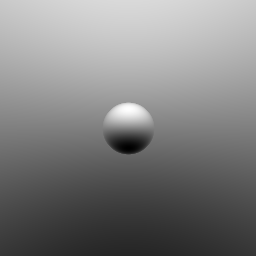
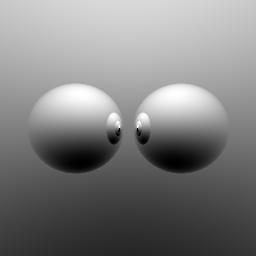
implemented shootRay with multiple objects in scene

Changed region(s): [[0.125, 0.3125, 0.875, 0.6875]]

diff --git a/main.py b/main.py
@@ -4,24 +4,40 @@ import numpy as np
 
 class Scene:
     def __init__(self):
-        self.sphere = Sphere([0,0,5], 1, Material(1,1))
+        self.geometry = [
+            Sphere([1.1,0,3], 1, Material(1,1)),
+            Sphere([-1.1,0,3], 1, Material(1,1))
+        ]
 
     def storeGeometry(self):
         pass
 
     def shootRay(self, ray, depth = 0):
-        if depth > 4:
+        if depth > 7:
             return Color([0,0,0])
-        intersection = self.sphere.getIntersection(ray)
+        intersection = None
+        closestShape = None
+        for shape in self.geometry:
+            tempIntersection = shape.getIntersection(ray)
+            if tempIntersection is not None and self.closer(tempIntersection, intersection, ray.origin):
+                intersection = tempIntersection
+                closestShape = shape
         if intersection is not None:
-            return self.sphere.computeLight(ray, intersection, self, depth)
+            return closestShape.computeLight(ray, intersection, self, depth)
         brightness = (ray.direction[1]+1)*255/2
         return Color([brightness, brightness, brightness])
+
+    def closer(self, tempIntersection, intersection, origin):
+        if intersection is None:
+            return True
+        v1 = tempIntersection - origin
+        v2 = intersection - origin
+        return np.dot(v1,v1) < np.dot(v2,v2)
 
 
 class Ray:
     def __init__(self, origin, direction):
-        self.origin = origin
+        self.origin = np.array(origin)
         self.direction = np.array(direction)/np.linalg.norm(direction)
 
 
@@ -35,6 +51,7 @@ class Material:
         direction = ray.direction-2*normal*np.dot(ray.direction,normal)
         directions.append((direction,1))
         return directions
+
 
 class Plane:
     def getIntersection(self, ray):
@@ -75,6 +92,7 @@ class Light:
     def __init__(self, position):
         self.position = position
 
+
 class Camera:
     def __init__(self, ray, fov):
         self.ray = ray
@@ -112,3 +130,4 @@ if __name__ == '__main__':
 
     image = Image.fromarray(data)
     image.save("output/sphere.png")
+    image.show()
